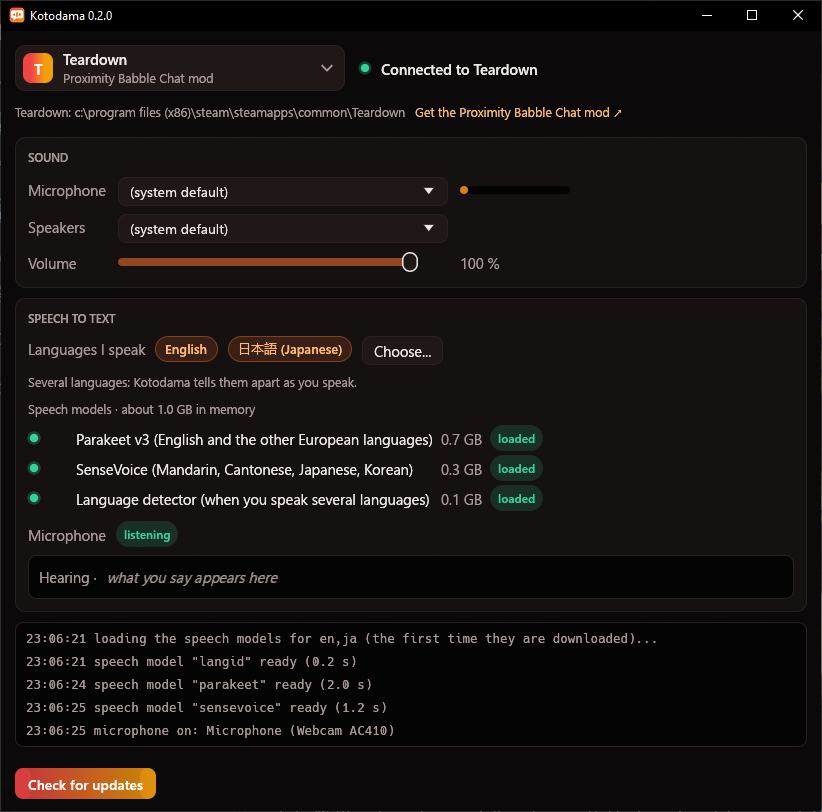
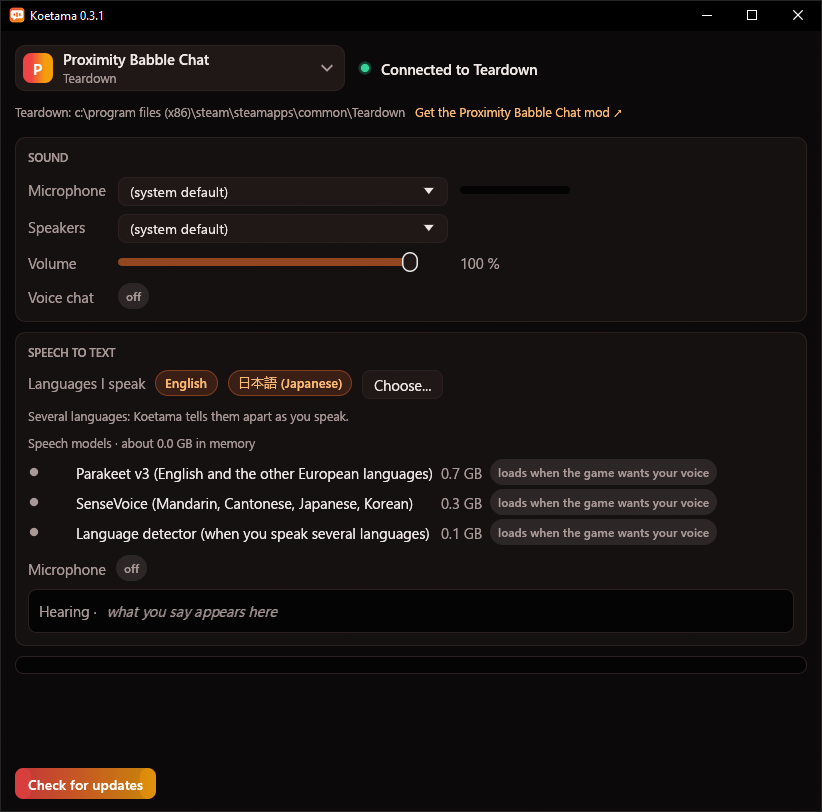
README: the screenshot of Koetama 0.3.1 (the new name, the mod-first game list)

diff --git a/README.md b/README.md
@@ -28,7 +28,7 @@
 </p>
 
 <p align="center">
-  <img src="docs/screenshot.png" width="640" alt="Koetama's window: connected to Teardown, English and Japanese picked, the speech models loaded">
+  <img src="docs/screenshot.png" width="640" alt="Koetama's window: connected to Teardown's Proximity Babble Chat mod, English and Japanese picked">
 </p>
 
 Koetama (声魂, "voice spirit" in Japanese) runs next to your game. It plays the other players' voices placed where they
